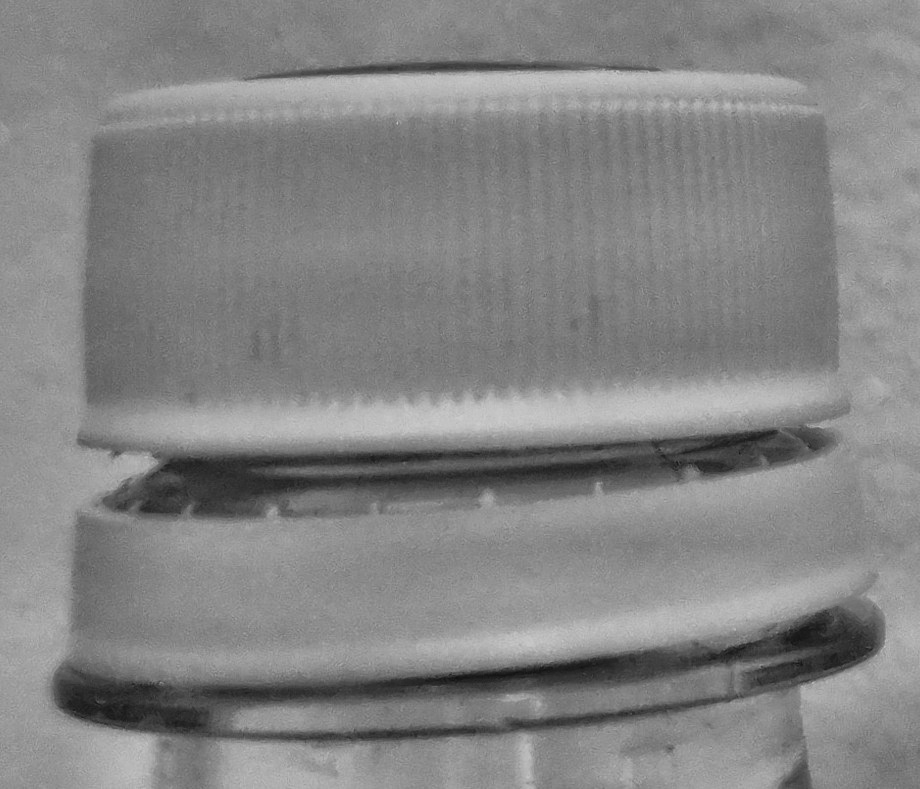
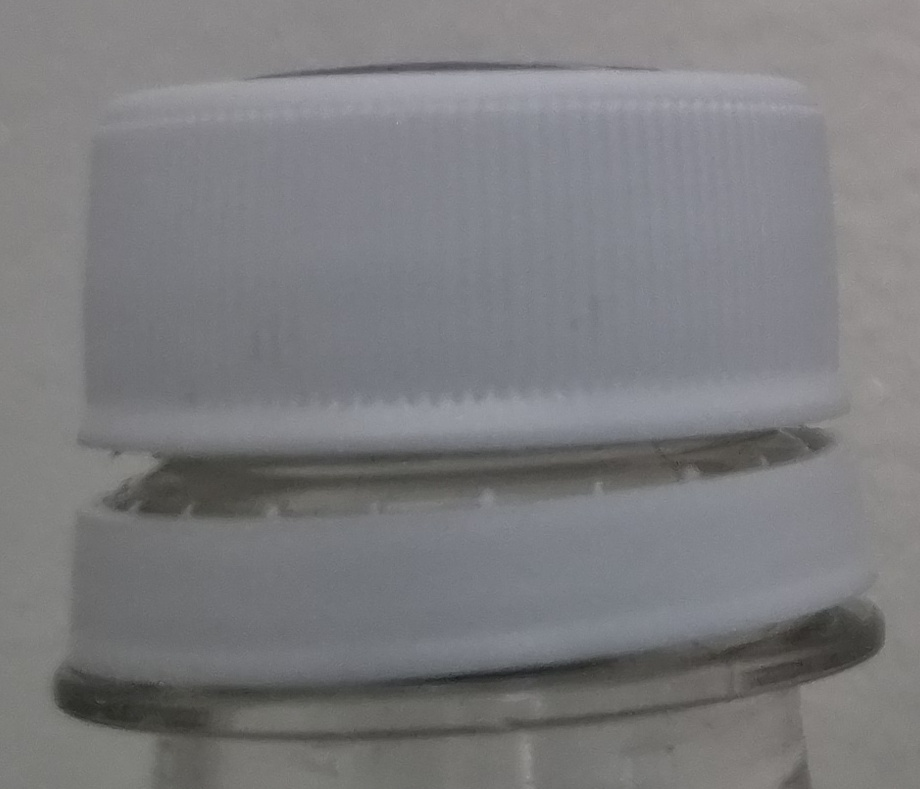
addditional test

diff --git a/src/17_day02_challenge.py b/src/17_day02_challenge.py
@@ -1,7 +1,7 @@
 from pathlib import Path
 
 import cv2
-
+import numpy as np
 
 image_path = Path(
     "samples/day02/challenge.jpg"
@@ -64,11 +64,70 @@ for clip_limit in [1.0, 2.0, 3.0]:
         mask
     )
 
-# 임시 최종 선택값: 비교 후 수정
-result = cv2.createCLAHE(
-    clipLimit=2.0,
-    tileGridSize=(8, 8)
-).apply(gray)
+
+# --------------------------------------------------
+# 추가 실험 1: Gamma Correction
+# --------------------------------------------------
+
+gamma_results = {}
+
+for gamma in [1.2, 1.5]:
+
+    inv_gamma = 1.0 / gamma
+
+    table = np.array([
+        ((i / 255.0) ** inv_gamma) * 255
+        for i in range(256)
+    ], dtype=np.uint8)
+
+    gamma_result = cv2.LUT(gray, table)
+    gamma_results[gamma] = gamma_result
+
+    cv2.imwrite(
+        str(output_dir / f"gamma_{gamma}.jpg"),
+        gamma_result
+    )
+
+    _, mask = cv2.threshold(
+        gamma_result, 0, 255,
+        cv2.THRESH_BINARY + cv2.THRESH_OTSU
+    )
+
+    cv2.imwrite(
+        str(output_dir / f"otsu_gamma_{gamma}.jpg"),
+        mask
+    )
+
+
+# --------------------------------------------------
+# 추가 실험 2: Gaussian Blur
+# --------------------------------------------------
+
+gaussian_result = cv2.GaussianBlur(
+    gray, (5, 5), 0
+)
+
+cv2.imwrite(
+    str(output_dir / "gaussian_5.jpg"),
+    gaussian_result
+)
+
+_, mask = cv2.threshold(
+    gaussian_result, 0, 255,
+    cv2.THRESH_BINARY + cv2.THRESH_OTSU
+)
+
+cv2.imwrite(
+    str(output_dir / "otsu_gaussian_5.jpg"),
+    mask
+)
+
+# 최종 판단: 전처리 미사용
+# 이유: 실험한 전처리 모두 병뚜껑과 배경의
+# Otsu 분리를 충분히 개선하지 못함
+# Gaussian 5x5는 3일차 추가 확인 후보
+
+result = image.copy()
 
 
 
